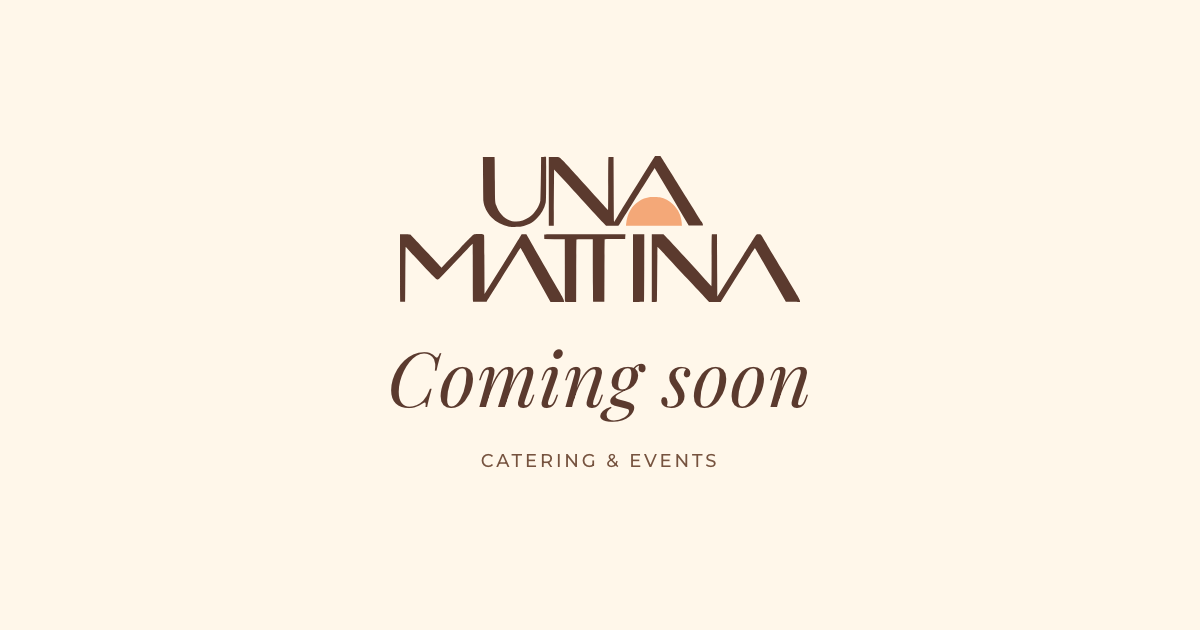
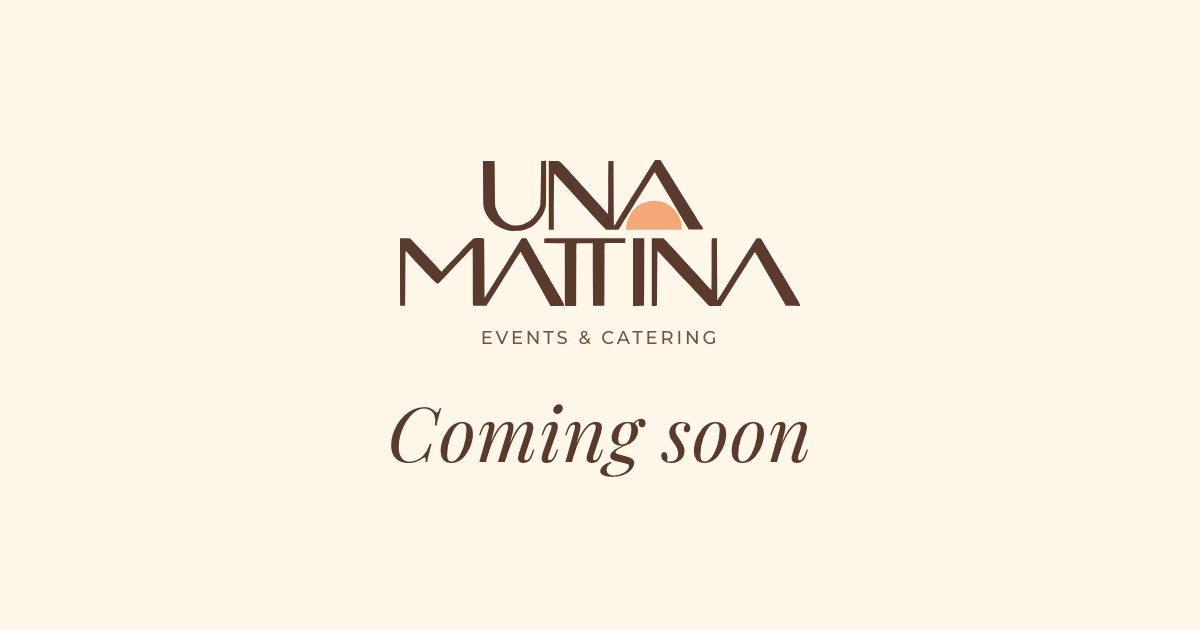
Coming soon: 'Events & Catering' right under the wordmark, 'Coming soon' below (owner's layout); link preview matches

diff --git a/app/app/components/ComingSoon.vue b/app/app/components/ComingSoon.vue
@@ -2,8 +2,8 @@
 // Holding page while site.config `comingSoon` is on: app.vue renders only this, on every URL.
 
 // Link previews (WhatsApp, iMessage, socials) show this page too, not the events site: own title, text and image.
-const desc = 'Una Mattina Catering & Events. Coming soon.'
-const ogImage = `${useRequestURL().origin}/og-soon.png?v=2`
+const desc = 'Una Mattina Events & Catering. Coming soon.'
+const ogImage = `${useRequestURL().origin}/og-soon.png?v=3`
 useSeoMeta({
   title: 'Coming soon',
   description: desc,
@@ -23,8 +23,8 @@ useHead({ meta: [{ name: 'theme-color', content: '#FFF7EA' }] })
   <main id="main" class="soon">
     <div class="soon__in">
       <Wordmark variant="stacked" class="soon__mark" />
+      <p class="soon__d">Events &amp; Catering</p>
       <h1 class="soon__t">Coming soon</h1>
-      <p class="soon__d">Catering &amp; Events</p>
     </div>
   </main>
 </template>
@@ -38,11 +38,11 @@ useHead({ meta: [{ name: 'theme-color', content: '#FFF7EA' }] })
 .soon__in { display: grid; justify-items: center; gap: clamp(20px, 3vw, 32px); }
 .soon__mark { width: clamp(180px, 42vw, 320px); }
 .soon__t { margin: 0; font: italic 400 var(--step-3)/1.05 var(--font-accent); letter-spacing: 0.01em; }
-.soon__d { margin: 0; font: 500 var(--step--1)/1.4 var(--font-text); letter-spacing: 0.16em; text-transform: uppercase; color: var(--ink-muted); }
+.soon__d { margin: calc(-0.4 * clamp(20px, 3vw, 32px)) 0 clamp(4px, 1.2vw, 16px); font: 500 var(--step--1)/1.4 var(--font-text); letter-spacing: 0.16em; text-transform: uppercase; color: var(--ink-muted); }
 @media (prefers-reduced-motion: no-preference) {
   .soon__in > * { opacity: 0; transform: translateY(12px); animation: soon-rise 700ms var(--ease-out) forwards; }
-  .soon__t { animation-delay: 120ms; }
-  .soon__d { animation-delay: 220ms; }
+  .soon__d { animation-delay: 120ms; }
+  .soon__t { animation-delay: 220ms; }
 }
 @keyframes soon-rise { to { opacity: 1; transform: none; } }
 </style>
